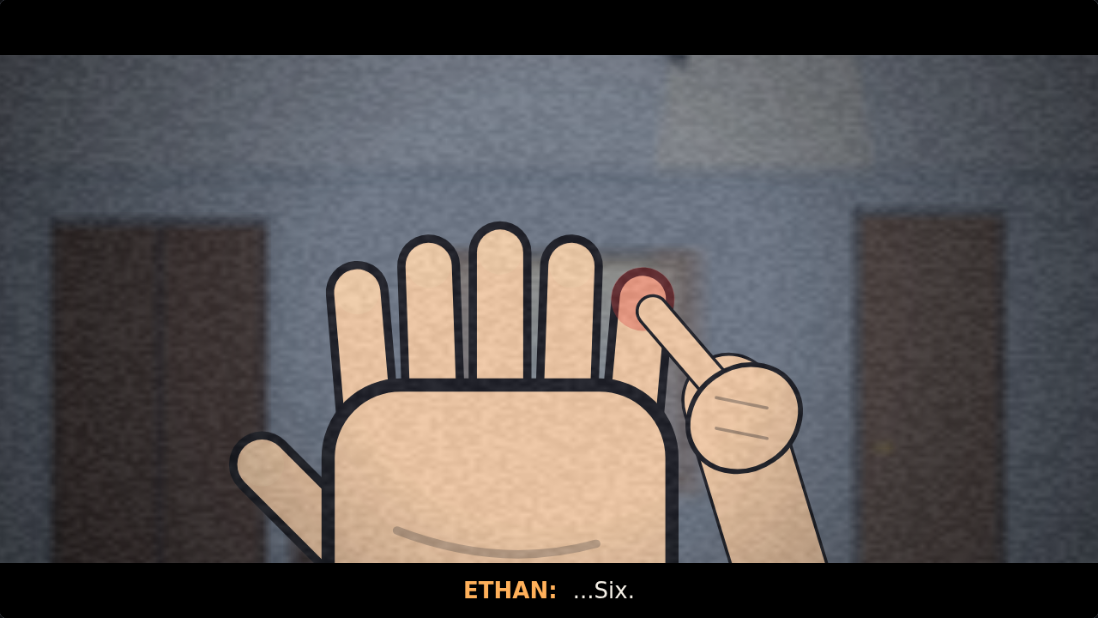
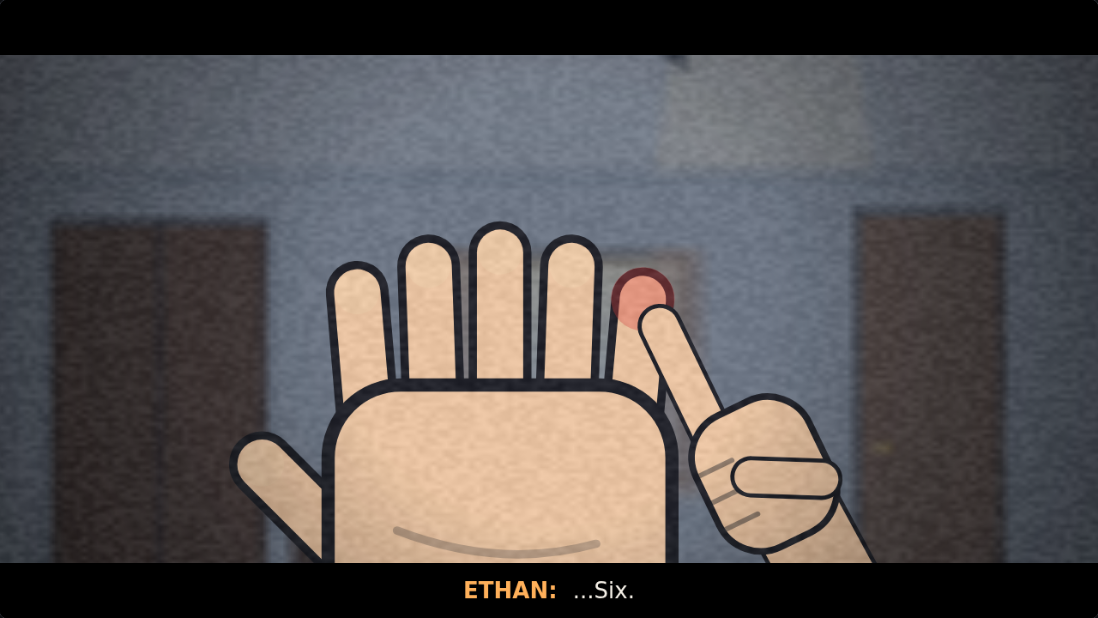
Scene 3: redraw the pointing hand in the finger count
One clean fist with the index finger straight out, the thumb across the
front, curled-finger creases and a forearm joined at the wrist, in the
same outline style as the open hand.

Claude-Session: https://claude.ai/code/session_01TKrh3DwfzpJfkwHqgcgBCE

Changed region(s): [[0.5574, 0.4612, 0.8051, 0.9223]]

diff --git a/false-awakening-scene3-short.html b/false-awakening-scene3-short.html
@@ -341,13 +341,20 @@ function bigHand(x,y,s,fingers,o){
   ctx.restore();
   return tips;
 }
-// the other hand pointing with one finger, coming in from the lower right
+// the other hand pointing with one finger, coming in from the lower right.
+// Drawn upright (finger up) then rotated so the fingertip lands on tip.
 function pointer(tip,s){
-  const k=s/2.6,fist=[tip[0]+60*k,tip[1]+70*k];
-  cap([fist[0]+160*k,H+200],fist,70*k,SK_A);
-  cap(fist,tip,22*k,SK_A);
-  ctx.fillStyle=SK_A;ctx.strokeStyle=INK;ctx.lineWidth=4;ctx.beginPath();ctx.ellipse(fist[0]+12*k,fist[1]+14*k,46*k,40*k,-.6,0,7);ctx.fill();ctx.stroke();
-  ctx.strokeStyle='rgba(28,30,38,.35)';ctx.lineWidth=2.5;[-1,1].forEach(q=>{ctx.beginPath();ctx.moveTo(fist[0]-10*k,fist[1]+q*12*k+10*k);ctx.lineTo(fist[0]+30*k,fist[1]+q*12*k+18*k);ctx.stroke()});
+  const k=s/2.6*1.3,rot=-.45,L=78;
+  ctx.save();ctx.translate(tip[0],tip[1]);ctx.rotate(rot);ctx.scale(k,k);ctx.translate(18,L+40);
+  ctx.lineJoin='round';
+  cap([6,30],[30,520],54,SK_A);                 // forearm
+  cap([-18,-30],[-18,-30-L],22,SK_A);           // index finger, straight
+  ctx.fillStyle=SK_A;ctx.strokeStyle=INK;ctx.lineWidth=4;
+  ctx.beginPath();ctx.roundRect(-38,-44,76,88,28);ctx.fill();ctx.stroke(); // fist
+  ctx.strokeStyle='rgba(28,30,38,.45)';ctx.lineWidth=3;ctx.lineCap='round';
+  [-16,2,20].forEach(y=>{ctx.beginPath();ctx.moveTo(-36,y);ctx.lineTo(-14,y);ctx.stroke()}); // curled finger creases
+  cap([30,18],[-8,-2],20,SK_A);                 // thumb across the front
+  ctx.restore();
 }
 const MORNING='#c9d0d8';
 function roomBlur(D,div,camY){withBlur(div,()=>bedroomWorld(D,camY,0,'07:12'))}

diff --git a/false-awakening-scene3.html b/false-awakening-scene3.html
@@ -340,13 +340,20 @@ function bigHand(x,y,s,fingers,o){
   ctx.restore();
   return tips;
 }
-// the other hand pointing with one finger, coming in from the lower right
+// the other hand pointing with one finger, coming in from the lower right.
+// Drawn upright (finger up) then rotated so the fingertip lands on tip.
 function pointer(tip,s){
-  const k=s/2.6,fist=[tip[0]+60*k,tip[1]+70*k];
-  cap([fist[0]+160*k,H+200],fist,70*k,SK_A);
-  cap(fist,tip,22*k,SK_A);
-  ctx.fillStyle=SK_A;ctx.strokeStyle=INK;ctx.lineWidth=4;ctx.beginPath();ctx.ellipse(fist[0]+12*k,fist[1]+14*k,46*k,40*k,-.6,0,7);ctx.fill();ctx.stroke();
-  ctx.strokeStyle='rgba(28,30,38,.35)';ctx.lineWidth=2.5;[-1,1].forEach(q=>{ctx.beginPath();ctx.moveTo(fist[0]-10*k,fist[1]+q*12*k+10*k);ctx.lineTo(fist[0]+30*k,fist[1]+q*12*k+18*k);ctx.stroke()});
+  const k=s/2.6*1.3,rot=-.45,L=78;
+  ctx.save();ctx.translate(tip[0],tip[1]);ctx.rotate(rot);ctx.scale(k,k);ctx.translate(18,L+40);
+  ctx.lineJoin='round';
+  cap([6,30],[30,520],54,SK_A);                 // forearm
+  cap([-18,-30],[-18,-30-L],22,SK_A);           // index finger, straight
+  ctx.fillStyle=SK_A;ctx.strokeStyle=INK;ctx.lineWidth=4;
+  ctx.beginPath();ctx.roundRect(-38,-44,76,88,28);ctx.fill();ctx.stroke(); // fist
+  ctx.strokeStyle='rgba(28,30,38,.45)';ctx.lineWidth=3;ctx.lineCap='round';
+  [-16,2,20].forEach(y=>{ctx.beginPath();ctx.moveTo(-36,y);ctx.lineTo(-14,y);ctx.stroke()}); // curled finger creases
+  cap([30,18],[-8,-2],20,SK_A);                 // thumb across the front
+  ctx.restore();
 }
 const MORNING='#c9d0d8';
 function roomBlur(D,div,camY){withBlur(div,()=>bedroomWorld(D,camY,0,'07:12'))}
